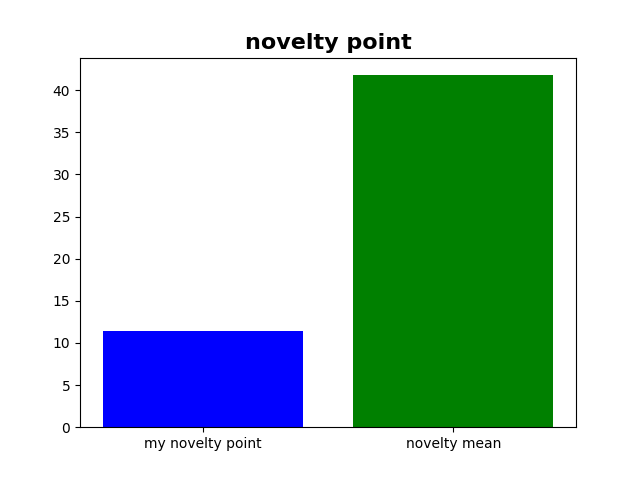
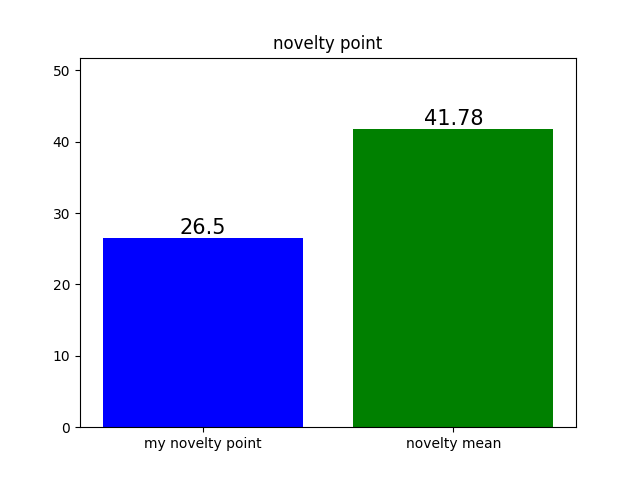
그래프 3개 그리는 것까지는 완성

diff --git a/templates/result.html b/templates/result.html
@@ -37,41 +37,54 @@
     </head>
 
 
-    <body>
+    <body>   
         <div>
-            <div style = "text-align:center; padding-top:50px">
-                <h2>에세이 결과 확인~!</h2>
-                <div style="border: 1px solid black;" cols="100" padding="50px"> {{ essay }} </div>
+            <h2>에세이 결과 확인~!</h2>
+            <div style="border: 1px solid black;" cols="100"> 
+                {{ essay }} 
             </div>
-
-            <div style="padding-top:20px">
-                <div>   <!-- style="float:left; text-align:center;" -->
-                    {% if True %}
-                    <img src="{{ url_for('static', filename="images/logical.png") }}" style="width:400px"><br>
-                    {% endif %}
+        </div>
+                    
+        <div style="width: 99%; bottom:100px; padding-top:20px">
+        
+            <div style="width:33%; float:left">   <!-- style="float:left; text-align:center;" -->
+                {% if True %}
+                <img src="{{ url_for('static', filename="images/logical.png") }}" style="width:400px"><br>
+                {% endif %}
+                <div>
+                    <h3>논리성 {{ point_list[0] }}점</h3>
+                    <h3>평균 {{ mean_list[0] }}점</h3>
                     <h3>상위 {{ grade_list[0] }}%</h3>
                 </div>
+            </div>
+
+            <div style="width:33%; float:left">
+                {% if True %}
+                <img src="{{ url_for('static', filename="images/novelty.png") }}" style="width:400px"><br>
+                {% endif %}
                 <div>
-                    {% if True %}
-                    <img src="{{ url_for('static', filename="images/novelty.png") }}" style="width:400px"><br>
-                    {% endif %}
-                    <div>
-                    <h3>참신성 {{ point_list[1] }}점</h3>
-                    <h3>평균 {{ mean_list[1] }}점</h3>
-                    <h3>상위 {{ grade_list[1] }}%</h3>
-                    </div>
+                <h3>참신성 {{ point_list[1] }}점</h3>
+                <h3>평균 {{ mean_list[1] }}점</h3>
+                <h3>상위 {{ grade_list[1] }}%</h3>
                 </div>
+            </div>
+
+            <div style="width:34%; float:left">
+                {% if True %}
+                <img src="{{ url_for('static', filename="images/persuasive.png") }}" style="width:400px"><br>
+                {% endif %}
                 <div>
-                    {% if True %}
-                    <img src="{{ url_for('static', filename="images/persuasive.png") }}" style="width:400px"><br>
-                    {% endif %}
+                    <h3>설득력 {{ point_list[2] }}점</h3>
+                    <h3>평균 {{ mean_list[2] }}점</h3>
                     <h3>상위 {{ grade_list[2] }}%</h3>
                 </div>
             </div>
+        <div>
 
-            <div style="display: flex; align-items: center; justify-content: center; padding-top:40px">
-                <h5> 총점 : {{ total_point }}점</h5>
-            </div>
+        <div>
+            <h4> 위 자료의 표본은 초중고 에세이 약 1만4천개를 가져왔습니다.</h4> 
+            <h4> 출처 : AIHUB_에세이 글 평가 데이터 </h4>
         </div>
+
     </body>
 </html>

diff --git a/app.py b/app.py
@@ -40,12 +40,12 @@ persuasive_hub_points_list = list(persuasive_hub_points)
 
 x = np.arange(2)
 
-title_font = {
-    'fontsize': 16,
-    'fontweight': 'bold'
-}
+# title_font = {        # plt
+#     'fontsize': 16,
+#     'fontweight': 'bold'
+# }
 
-
+font_size = 15
 
 @app.route('/')
 def home():
@@ -55,7 +55,7 @@ def home():
 def result():
     if request.method == 'POST':
         essay = request.form["essay"]
-        essay = re.sub('\n', ' ', essay)        # 점수 오류는 여기 밖에 없지 이 변수 밖에 없어
+        essay = re.sub('\n|#|"', ' ', essay)        # 점수 오류는 여기 밖에 없지 이 변수 밖에 없어
         print(essay)
         input_sentence = [essay,""]
         logical_point = logical_model.result_point(input_sentence, mode_='logical')
@@ -80,30 +80,55 @@ def result():
         
         points1 = [logical_point, logical_mean]
         names = ['my logical point', 'logical mean']
-        plt.title("logical point", fontdict=title_font)
+        plt.title("logical point")
         plt.xticks(x,names)
         plt.bar(x, points1, color=['blue','green'])
-    
-        plt.savefig('static/images/logical.png')     
+        plt.ylim(0, max(points1)+10)
+        for i, v in enumerate(x):
+            plt.text(v, points1[i], points1[i],                 # 좌표 (x축 = v, y축 = y[0]..y[1], 표시 = y[0]..y[1])
+            fontsize = font_size, 
+            color='black',
+            horizontalalignment='center',  # horizontalalignment (left, center, right)
+            verticalalignment='bottom')    # verticalalignment (top, center, bottom)
+
+        plt.savefig('static/images/logical.png') 
+        plt.show()    
+        plt.clf()
         
         
         points2 = [novelty_point, novelty_mean]
         names = ['my novelty point', 'novelty mean']
-        plt.title("novelty point", fontdict=title_font)
+        plt.title("novelty point")
         plt.xticks(x,names)
-        plt.bar(x, points2,color=['blue','green'])
- 
-        plt.savefig('static/images/novelty.png')   
+        plt.bar(x, points2, color=['blue','green'])
+        plt.ylim(0, max(points2)+10)
+        for i, v in enumerate(x):
+            plt.text(v, points2[i], points2[i],                 # 좌표 (x축 = v, y축 = y[0]..y[1], 표시 = y[0]..y[1])
+            fontsize = font_size, 
+            color='black',
+            horizontalalignment='center',  # horizontalalignment (left, center, right)
+            verticalalignment='bottom')    # verticalalignment (top, center, bottom)
         
+        plt.savefig('static/images/novelty.png')   
+        plt.show()
+        plt.clf()
         
         points3 = [persuasive_point, persuasive_mean]
         names = ['my persuasive point', 'persuasive mean'] 
-        plt.title("persuasive point", fontdict=title_font)
+        plt.title("persuasive point")
         plt.xticks(x,names)
         plt.bar(x, points3, color=['blue','green'])
+        plt.ylim(0, max(points3)+10)
+        for i, v in enumerate(x):
+            plt.text(v, points3[i], points3[i],                 # 좌표 (x축 = v, y축 = y[0]..y[1], 표시 = y[0]..y[1])
+            fontsize = font_size, 
+            color='black',
+            horizontalalignment='center',  # horizontalalignment (left, center, right)
+            verticalalignment='bottom')    # verticalalignment (top, center, bottom)
        
         plt.savefig('static/images/persuasive.png')   
-
+        plt.show()
+        plt.clf()
         
         return render_template("result.html", essay=essay, point_list=point_list, \
             total_point=total_point, grade_list=grade_list, mean_list=mean_list)
